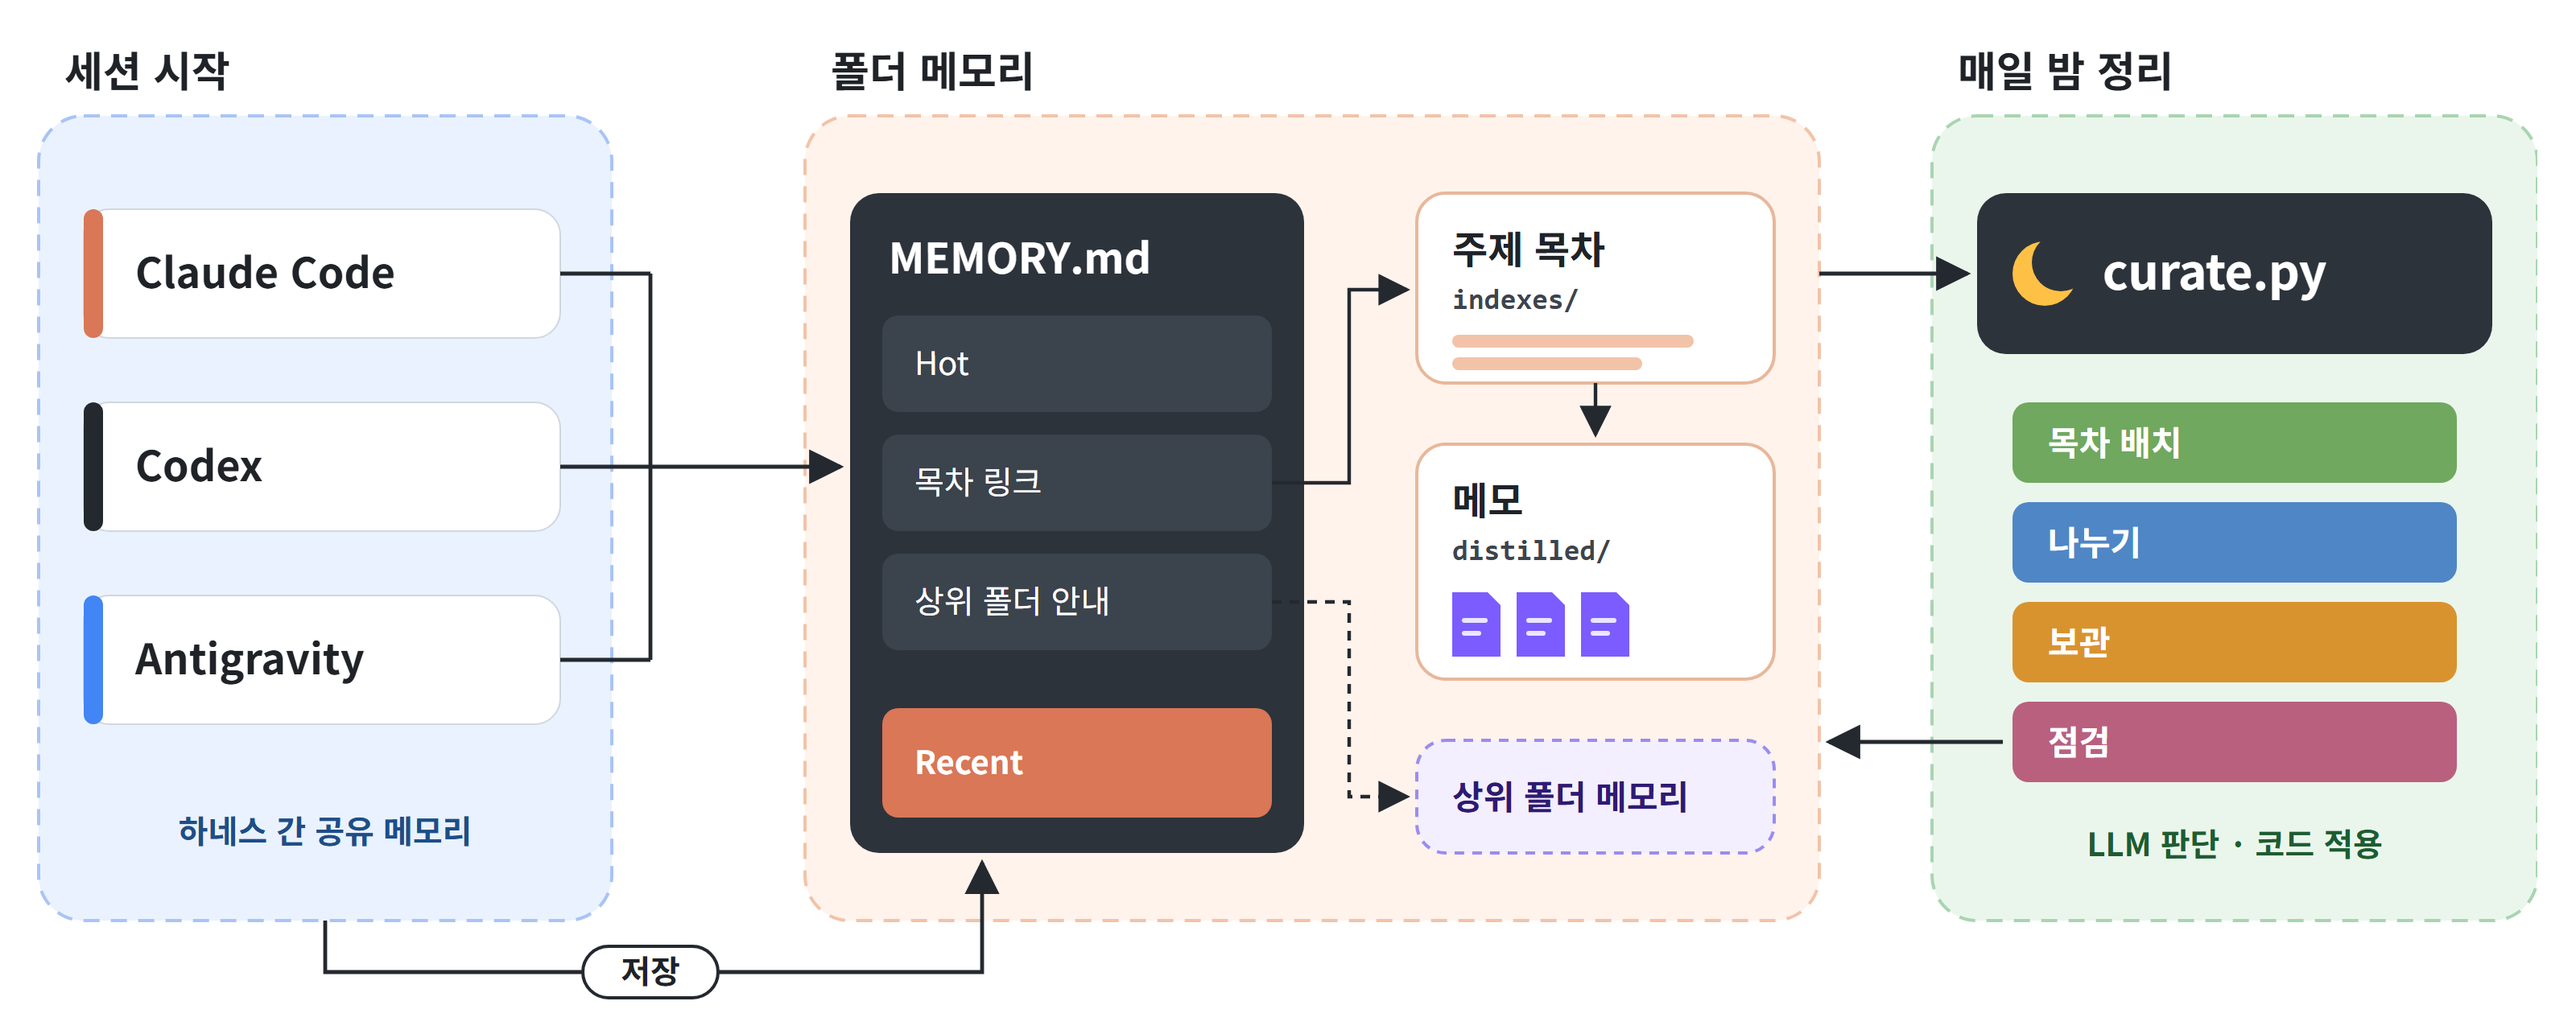
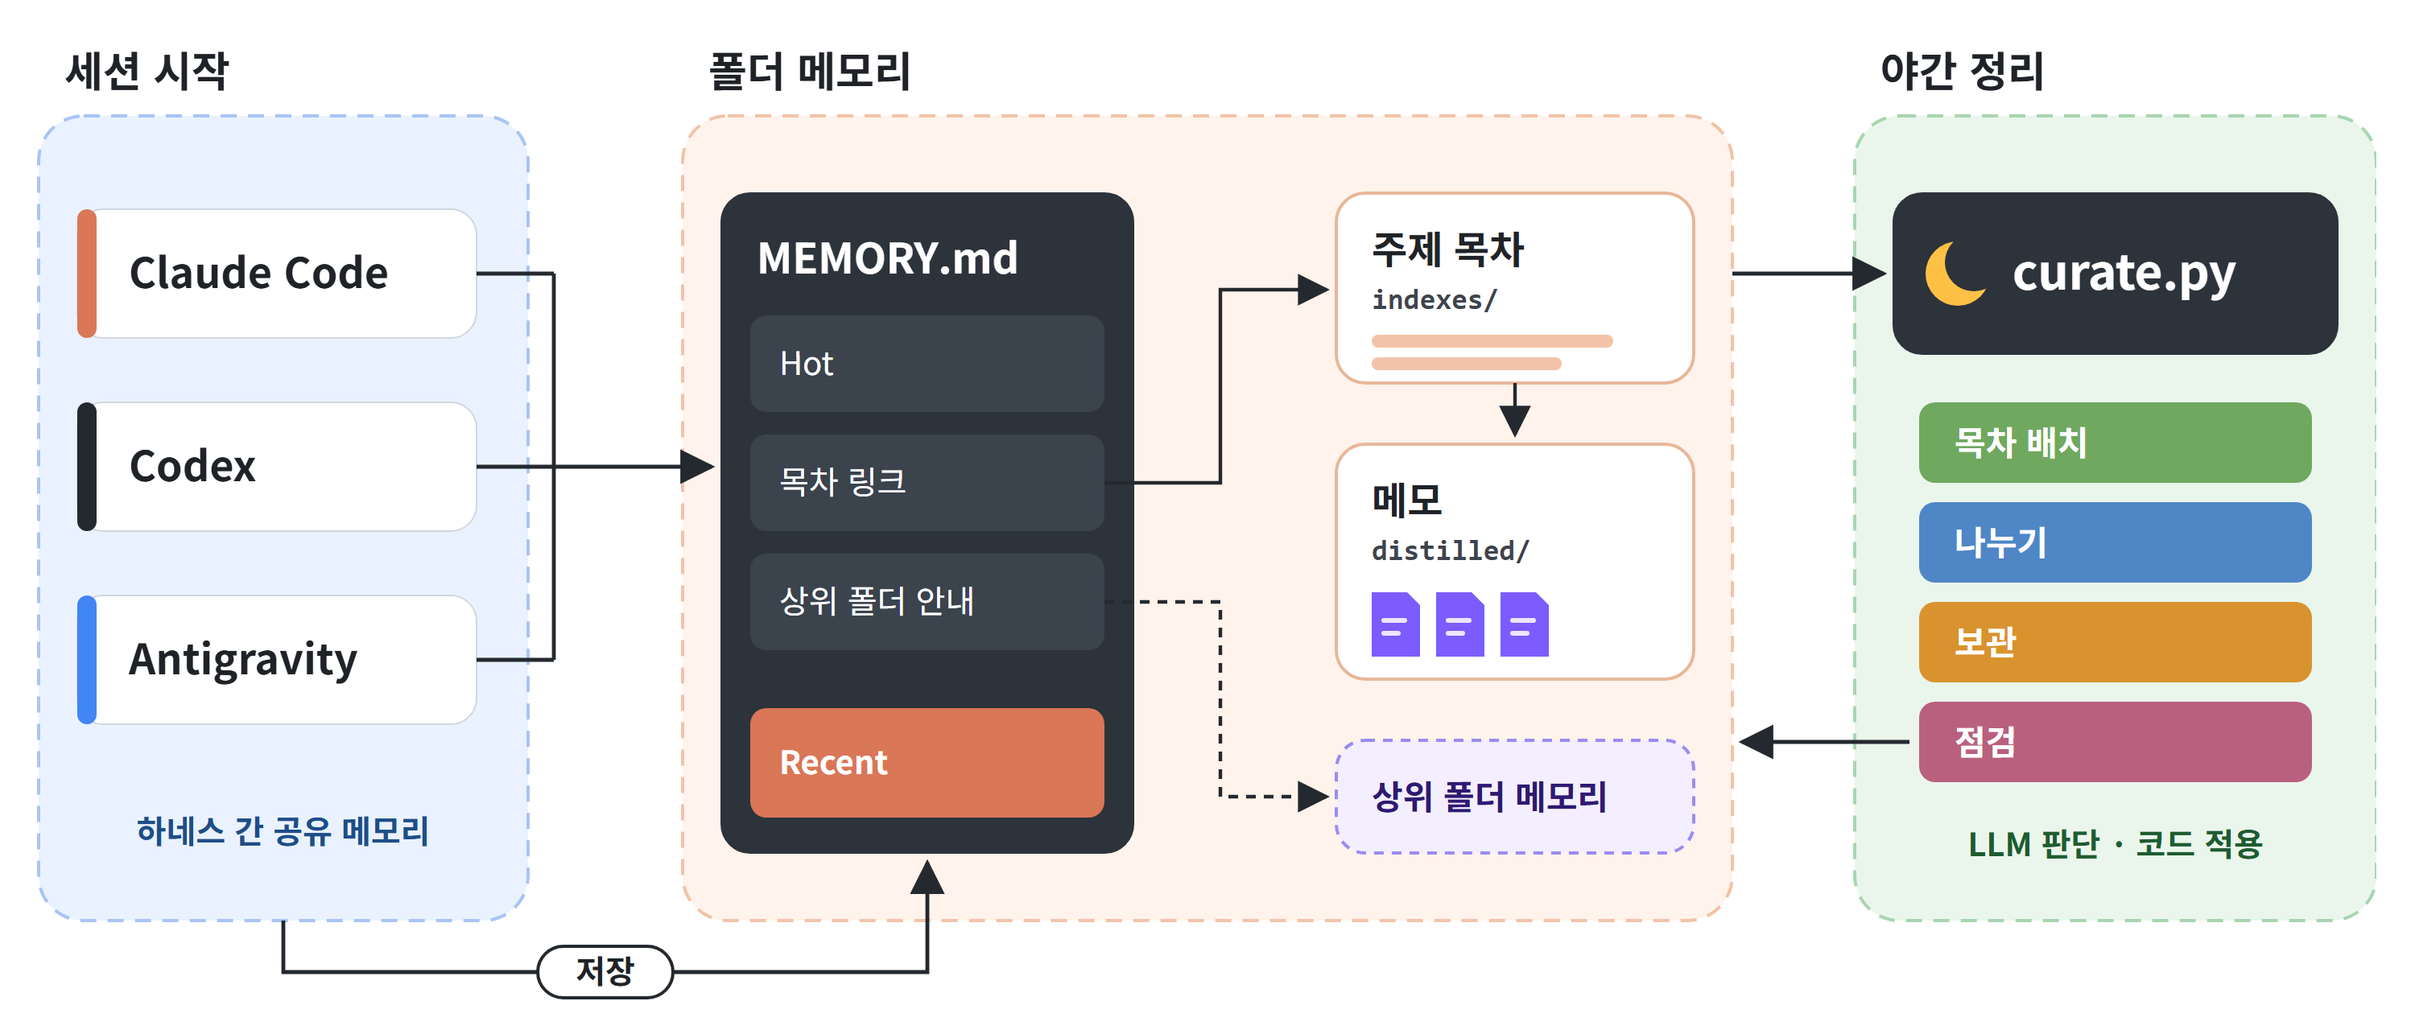
README figure: dark-mode version, wider spacing, 85% width
A dark variant shows to readers on GitHub's dark theme (<picture> with
prefers-color-scheme); the white cards stay white in both. Boxes are sized
closer to their text, with more room for the arrows inside the memory
panel. The right panel is now titled 야간 정리. Shown at 85% width so it
does not fill the page.

diff --git a/README.md b/README.md
@@ -18,7 +18,12 @@
 
 ## 이렇게 일합니다
 
-<p align="center"><img src="assets/how-it-works.png" alt="세션 시작(Claude Code·Codex·Antigravity) → 폴더 메모리(MEMORY.md → 주제 목차 → 메모) → 매일 밤 정리(curate.py)" width="100%"></p>
+<p align="center">
+  <picture>
+    <source media="(prefers-color-scheme: dark)" srcset="assets/how-it-works-dark.png">
+    <img src="assets/how-it-works.png" alt="세션 시작(Claude Code·Codex·Antigravity) → 폴더 메모리(MEMORY.md → 주제 목차 → 메모) → 야간 정리(curate.py)" width="85%">
+  </picture>
+</p>
 
 세션 시작 때 들어가는 것은 약 800토큰 이하의 목록 파일 하나입니다. 나머지는 필요할 때 목차를 따라 엽니다. 정리는 **코드가 고치고, LLM 은 판단(JSON)만** 합니다 — 어느 목차에 넣을지, 무엇이 서로 모순되는지, 큰 목차를 어떻게 나눌지.
 
